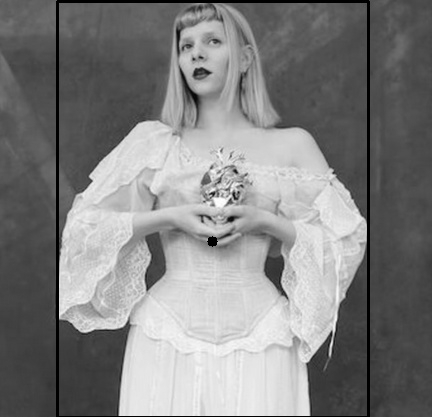
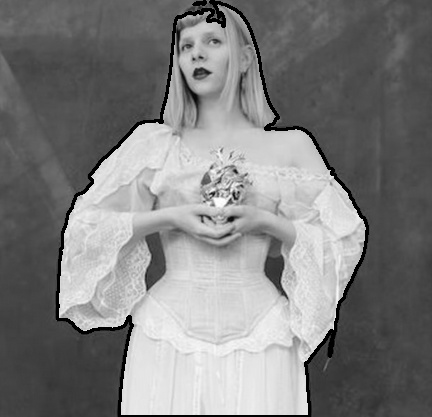
Writing of the README Taller 4

diff --git a/2025-04-21_taller_segmentacion_formas/README.md b/2025-04-21_taller_segmentacion_formas/README.md
@@ -1,0 +1,55 @@
+# Taller 4
+## Python
+[Enlace a la implementación en el repositorio](https://github.com/mijx/computacion-visual/tree/main/2025-04-21_taller_segmentacion_formas/python/taller4)
+
+### Resumen de la implementación
+
+Se realizó la segmentación binaria de una imagen cargada con OpenCV, seguida de la detección de contornos, cálculo de centros de masa y cajas delimitadoras (bounding boxes), y se calcularon métricas básicas como número de formas, área y perímetro promedio. Además, se aplicaron filtros básicos de procesamiento de imágenes.
+
+La imagen sobre la cual se trabajó fue:
+
+<img src="python\taller4\img\aurora.png" width="50%" />
+
+#### Segmentación binaria
+##### Umbral fijo:
+<img src="python\taller4\img\umbralfijo.jpg" width="50%" />
+
+Se aplicó un umbral fijo utilizando `cv2.threshold`, estableciendo un valor de 127 para separar los pixeles en blanco y negro.
+
+##### Umbral adaptativo:
+<img src="python\taller4\img\umbraladaptativo.jpg" width="50%" />
+
+Se aplicó un umbral adaptativo usando `cv2.adaptiveThreshold`, permitiendo que el umbral varíe de acuerdo a la vecindad de cada píxel, logrando una segmentación más precisa en condiciones de iluminación no uniforme.
+
+#### Detección de contornos
+<img src="python\taller4\img\contornos.jpg" width="50%" />
+
+Se detectaron los contornos de las formas binarizadas utilizando `cv2.findContours`, extrayendo los bordes externos de cada objeto identificado en la imagen.
+
+#### Centro de masa y bounding boxes
+<img src="python\taller4\img\centrosyboxes.jpg" width="50%" />
+
+Se calcularon los centros de masa con `cv2.moments` y se dibujaron círculos rojos en esos puntos. Además, se trazaron cajas delimitadoras (bounding boxes) alrededor de cada forma usando `cv2.boundingRect`.
+
+#### Métricas básicas
+Se calcularon las métricas principales a partir de los contornos detectados, y los resultados fueron:
+
+    Número de formas detectadas: 2
+    Área promedio: 40550.00
+    Perímetro promedio: 765.09
+
+### Descripción de los prompts
+A lo largo de la implementación, se recurrió al apoyo de herramientas LLM, realizando consultas sobre:
+* Cómo realizar segmentación binaria con umbral fijo y adaptativo.
+* Cómo detectar y dibujar contornos en una imagen.
+* Cómo calcular centros de masa y bounding boxes.
+* Cómo calcular métricas básicas de formas detectadas.
+
+### Dificultades presentadas
+* Realizar un preprocesamiento adecuado a la imagen antes de calcular contornos.
+* Ajustar correctamente los parámetros de umbral adaptativo para lograr una buena segmentación.
+
+### Aprendizajes obtenidos
+* Uso de técnicas de segmentación y detección de contornos en imágenes.
+* Aplicación de momentos para hallar centros de masa.
+* Cálculo de métricas geométricas básicas en procesamiento de imágenes.
